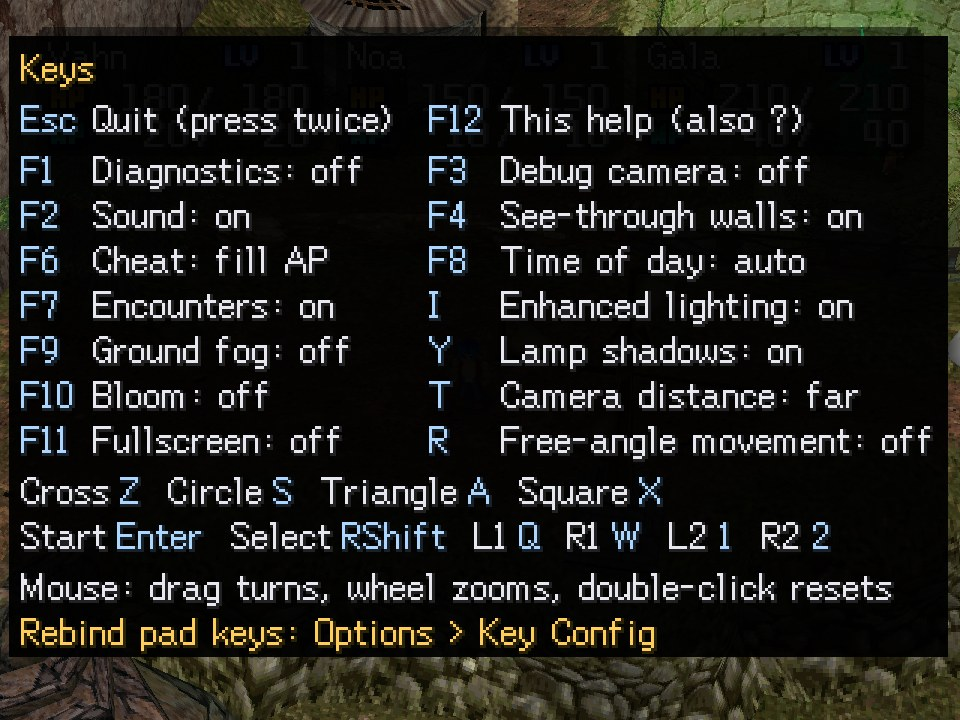
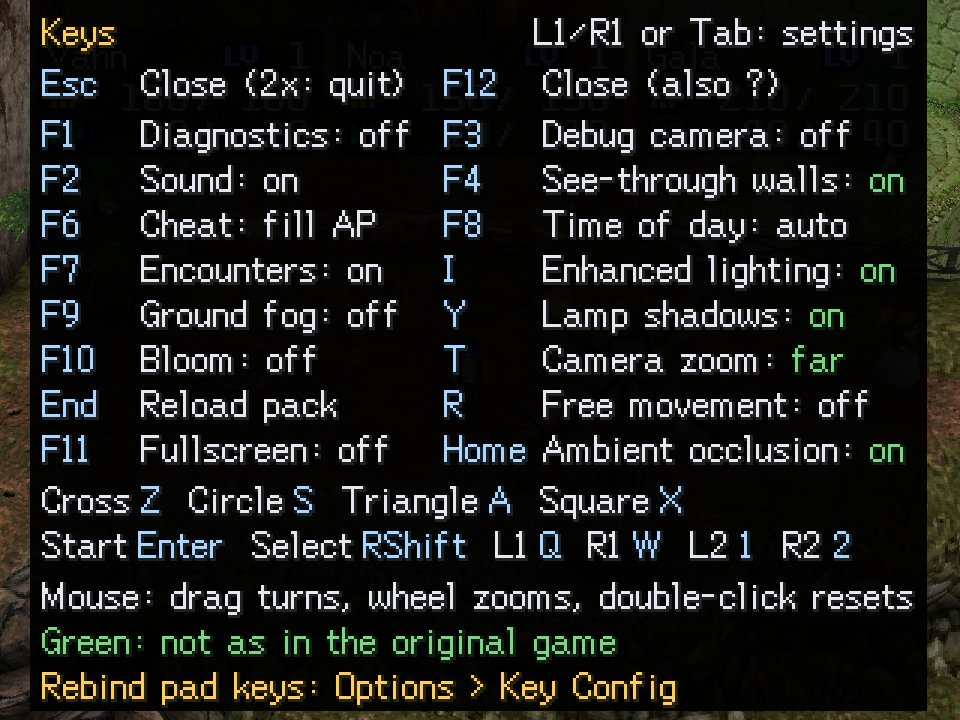
guides and screenshots: the launcher's first screen, the F12 pages, the workbench's Place objects and button names; Baka's pause menu

diff --git a/site/_content/guides/making-expansion-packs.html b/site/_content/guides/making-expansion-packs.html
@@ -67,14 +67,14 @@
   <p>Every edit re-runs the validator with your disc resolving each coordinate. A check names its file and field; clicking it opens the tab, selects the item and focuses the field, and <kbd>F8</kbd> steps through them. A pack with an error does not export.</p>
 
   <h3 id="first-play">7. Play it</h3>
-  <p><strong>Play here</strong> opens the play page on the map the Maps tab is on; while that tab is open, the next Play here (or <strong>Live</strong>, every edit) reloads the pack in place with the player where they stand. <strong>Open 3D preview</strong> draws the map the way the engine builds it, above the painter, with walls, zones and NPCs as see-through volumes. Both draw your disc's textures, so they are not pictured here.</p>
+  <p><strong>Play this map</strong> opens the play page on the map the Maps tab is on; while that tab is open, the next Play this map (or <strong>Live</strong>, every edit) reloads the pack in place with the player where they stand. The 3D view draws the map the way the engine builds it, with walls, zones and NPCs as see-through volumes under <strong>View</strong>, and <strong>Fullscreen</strong> (<kbd>F11</kbd>) takes it edge to edge. Both draw your disc's textures, so they are not pictured here.</p>
 
   <h3 id="first-share">8. Export and share</h3>
   <figure class="screenshot">
     <img src="../img/guides/expansion/10-packbar.png" width="1030" height="92" alt="The pack bar after a download: Harbor Tales, version 0.1.0, autosaved, with Download .lxpack, TOML files, Share, Play in browser and Play here" loading="lazy">
     <figcaption>The pack bar: download, the TOML files, Share, and the two ways to play.</figcaption>
   </figure>
-  <p><strong>Download .lxpack</strong> (<kbd>Ctrl</kbd>+<kbd>S</kbd>) writes the bundle - this one is under 2 KB, because it holds no game data. Anyone with their own disc opens it on the play page (<em>Load expansion</em>) or in the native port with <code>--expansion</code>. <strong>Share</strong> sets a cover, compares against an older <code>.lxpack</code> for a changelog and a version bump, downloads the editable sources as a zip, and adds the pack to the play page's library. The <strong>Files</strong> tab gives each TOML file on its own, for a pack kept as a folder.</p>
+  <p><strong>Save .lxpack</strong> (<kbd>Ctrl</kbd>+<kbd>S</kbd>) writes the bundle - this one is under 2 KB, because it holds no game data. Anyone with their own disc opens it on the play page (<em>Load expansion</em>) or in the native port with <code>--expansion</code>. <strong>Share</strong> sets a cover, compares against an older <code>.lxpack</code> for a changelog and a version bump, downloads the editable sources as a zip, and adds the pack to the play page's library. The <strong>Files</strong> tab gives each TOML file on its own, for a pack kept as a folder.</p>
   <figure class="screenshot">
     <img src="../img/guides/expansion/11-files.png" width="676" height="914" alt="The Files tab listing the exported battle.toml, cards.toml, dialog.toml, maps/first_map.toml, pack.toml and quests.toml with their sizes, the map file open on its TOML: its name, floor heights and base scene town01" loading="lazy">
     <figcaption>What the bundle holds: TOML that names disc content by number.</figcaption>
@@ -87,10 +87,10 @@
     <li><b>Pick your disc</b><span>The workbench reads its monsters, items, scenes and music for the pickers. Nothing is uploaded, and no name from the disc is written into the pack: a picker writes the coordinate (<code>{ kind = "monster", id = 109 }</code>), never the name beside it.</span></li>
     <li><b>Start from something</b><span>Load the <strong>sample pack</strong> (the project's example pack, written to learn from), a <code>.lxpack</code>, a pack folder of your own, or start a new pack: empty, from the minimal template, or as a clone of the sample pack.</span></li>
     <li><b>Edit section by section</b><span>One tab per file. The checks panel re-runs the validator after every edit with your disc resolving every coordinate; clicking an issue opens its tab and focuses the field. Undo and redo cover the whole pack, <strong>Find</strong> lists every place an id or a retail coordinate is used, <strong>Rename</strong> changes an id with every reference to it (previewed, one undo step), and the <strong>Flow</strong> tab draws the pack's progression as a graph with what the player cannot reach, flags read and never set, and rewards nothing grants marked on it.</span></li>
-    <li><b>Lay out a map</b><span>On the <strong>Maps</strong> tab: paint tiles from the legend, place spawns, exits, trigger and encounter zones, props and NPCs, and turn on <strong>Heights</strong> to see which cells the floor slopes across. The <strong>Detail layer</strong> under the painter dresses the floor - decorations, scatter brushes, edge runs, decals, animated materials, lights, fog and particles - each a list form whose tile fields pick on the canvas. For an outdoor map, open the <strong>Terrain</strong> box and sculpt with the <strong>Sculpt</strong> tool (K): hills, ridges, levelled pads, a shoreline under water (<a href="../formats/expansion-pack-maps.html#terrain">terrain</a>).</span></li>
-    <li><b>See it in 3D</b><span><strong>Open 3D preview</strong> above the painter draws the map the way the engine builds it - props, decorations, lights, fog and all - with the tile grid at its corner heights (ramps tinted) and walls, zones, triggers, spawns and NPCs as see-through volumes you can toggle. <strong>Split</strong> puts it beside the painter and keeps it in view while you scroll the forms, and <strong>3D</strong> makes it as large as the window. It rebuilds a moment after each edit, and the volumes follow an edit at once while it does; a click in 3D selects the tile in the painter, and <strong>Walk from selection</strong> drops you onto it with the game's camera. Switch the <strong>Edit</strong> bar to <strong>Select</strong> to move, turn and scale props, NPCs, spawns, lamps, emitters and zones with gizmos right in the picture (snapped to the tile or a 32-unit grid, Shift for free), to <strong>Sculpt</strong> to brush the terrain, or to <strong>Paint</strong> to lay ground materials - every edit lands in the painter and in undo. A cutscene's timeline draws its camera path there, scrubbed frame by frame.</span></li>
-    <li><b>Try it</b><span><strong>Play here</strong> opens the play page on the map you are editing; while that tab is open, Play here again (or <strong>Live</strong>) reloads your edits into it in place, with the player where they stand. <strong>Play in browser</strong> opens the play page with the pack loaded, from the start.</span></li>
-    <li><b>Share it</b><span><strong>Download .lxpack</strong>, or take the TOML files one at a time on the Files tab for a pack kept as a folder.</span></li>
+    <li><b>Lay out a map</b><span>In <strong>Build</strong>, a map opens in <strong>Place objects</strong> with a palette of real objects off your disc along the bottom. <strong>Map settings</strong> opens the tile painter: paint tiles from the legend, place spawns, exits, trigger and encounter zones, props and NPCs, and turn on <strong>Heights</strong> to see which cells the floor slopes across. The <strong>Detail layer</strong> under the painter dresses the floor - decorations, scatter brushes, edge runs, decals, animated materials, lights, fog and particles - each a list form whose tile fields pick on the canvas. For an outdoor map, open the <strong>Terrain</strong> box and sculpt with the <strong>Sculpt</strong> tool (K): hills, ridges, levelled pads, a shoreline under water (<a href="../formats/expansion-pack-maps.html#terrain">terrain</a>).</span></li>
+    <li><b>See it in 3D</b><span>A map opens in the 3D view, which draws it the way the engine builds it - props, decorations, lights, fog and all - with the tile grid at its corner heights (ramps tinted) and walls, zones, triggers, spawns and NPCs as see-through volumes you can toggle. <strong>Map settings</strong> puts the painter and the forms in a drawer beside it, and <strong>Fullscreen</strong> takes it edge to edge. It rebuilds a moment after each edit, and the volumes follow an edit at once while it does; a click in 3D selects the tile in the painter, and <strong>Walk from selection</strong> drops you onto it with the game's camera. Switch the <strong>Edit</strong> bar to <strong>Select</strong> to move, turn and scale props, NPCs, spawns, lamps, emitters and zones with gizmos right in the picture (snapped to the tile or a 32-unit grid, Shift for free), to <strong>Sculpt</strong> to brush the terrain, or to <strong>Paint</strong> to lay ground materials - every edit lands in the painter and in undo. A cutscene's timeline draws its camera path there, scrubbed frame by frame.</span></li>
+    <li><b>Try it</b><span><strong>Play this map</strong> opens the play page on the map you are editing; while that tab is open, Play this map again (or <strong>Live</strong>) reloads your edits into it in place, with the player where they stand. <strong>Play pack</strong> opens the play page with the pack loaded, from the start.</span></li>
+    <li><b>Share it</b><span><strong>Save .lxpack</strong>, or take the TOML files one at a time on the Files tab for a pack kept as a folder.</span></li>
   </ol>
   <p>The working pack autosaves in the browser, so closing the tab loses nothing; a returning visitor who loads the disc is offered to resume. A file you did not edit exports as the bytes it was loaded from, comments included. Page reference: <a href="https://github.com/AndrewAltimit/legend-of-legaia-re/blob/main/docs/tooling/expansion-workbench.md" target="_blank" rel="noopener">expansion-workbench.md</a>.</p>
 </section>

diff --git a/site/_content/guides/desktop-apps.html b/site/_content/guides/desktop-apps.html
@@ -155,7 +155,7 @@
 
   <h3 id="port-launcher">The launcher</h3>
   <figure class="screenshot">
-    <img src="../img/desktop/port-launcher.jpg" width="960" height="720" alt="The launcher: a disc card saying Legend of Legaia (USA) is ready, the Play, Change disc, Controls, Open saves folder and Quit buttons with a help box, and the grouped option list with its scroll bar - Display, Enhancements and Play, with Sound and Original game below the fold" loading="lazy">
+    <img src="../img/desktop/port-launcher.jpg" width="960" height="720" alt="The launcher: a disc card saying Legend of Legaia (USA) is ready, the Play, Play online, Change disc, Expansion pack, Controls, Saves folder and Quit buttons with a help box, and the grouped option list with its scroll bar, opening on the Look and feel row, then Display and Enhancements" loading="lazy">
     <figcaption>The launcher. Once it knows your disc it letters itself in the game's own font.</figcaption>
   </figure>
   <ol class="steps">
@@ -187,8 +187,12 @@
 
   <h3 id="port-toggles">Display toggles and the F12 panel</h3>
   <figure class="screenshot">
-    <img src="../img/desktop/port-help.jpg" width="960" height="720" alt="The native window with the F12 panel open, listing every toggle key with its current state and the key for each pad button" loading="lazy">
-    <figcaption><kbd>F12</kbd> (or <kbd>?</kbd>, or <kbd>Select</kbd> + <kbd>Start</kbd> on a controller) opens the settings page, where Up / Down pick a row and Left / Right change it while the game holds still. <kbd>Tab</kbd> or <kbd>L1</kbd> flips to this page, which lists every toggle key with its current state (fullscreen on <kbd>F11</kbd> too), which key is Cross, Circle, Start and the rest, and what the mouse does; a state the original game does not have is drawn green, as on the launcher. Press it again to close.</figcaption>
+    <img src="../img/desktop/port-settings.jpg" width="960" height="720" alt="The F12 panel over a dimmed town on its Settings page: fullscreen, camera distance, reduce flashing, the lighting rows, fog, see-through walls, free-angle movement and the volumes, with the focused row's help below" loading="lazy">
+    <figcaption>The settings page, the panel's first: Up / Down pick a row and Left / Right change it, with the game held still and the change showing behind the panel at once. It writes the same <code>legaia-options.toml</code> as the launcher.</figcaption>
+  </figure>
+  <figure class="screenshot">
+    <img src="../img/desktop/port-help.jpg" width="960" height="720" alt="The F12 panel over a dimmed town on its Keys page: every toggle key with its current state, with the states the original game does not have in green, then the pad key bindings and the mouse controls" loading="lazy">
+    <figcaption><kbd>F12</kbd> (or <kbd>?</kbd>, or <kbd>Select</kbd> + <kbd>Start</kbd> on a controller) opens the settings page above. <kbd>Tab</kbd>, <kbd>L1</kbd> or <kbd>R1</kbd> flips to this page, which lists every toggle key with its current state (fullscreen on <kbd>F11</kbd> too), which key is Cross, Circle, Start and the rest, and what the mouse does; a state the original game does not have is drawn green, as on the launcher. Press it again to close.</figcaption>
   </figure>
   <p>The port adds a few enhancements over the original, each on its own key (and on the <a href="#port-launcher">launcher</a>), each with the original look one press away. A press shows the toggle's new state at the bottom left for a moment. For its first few seconds the window says <em>F12 or ? lists the keys</em> in the same place, until you open the panel.</p>
   <table>

diff --git a/site/_content/guides/playing-expansion-packs.html b/site/_content/guides/playing-expansion-packs.html
@@ -23,8 +23,8 @@ legaia-engine play-window --disc "Legend of Legaia (USA).bin" \
 
 <section class="doc-section" id="browser" data-doc="-">
   <h2>In the browser</h2>
-  <p>On the <a href="../play.html">play page</a>, load your disc first: a pack activates against it. Every visit starts with no pack - New game and the Scene picker are the game as it shipped. Packs are experimental and incomplete, so one is turned on only from the <strong>Expansion pack</strong> card in the side panel: it lists the sample pack the site serves first and takes any other <code>.lxpack</code>, and a row's <em>Enable</em> loads it. While a pack is on, the Scenes list opens with a section under the pack's name, marked experimental, listing its maps and custom game modes, a click walks you straight onto one, and New Game plays with the pack; <em>Disable</em> goes back to the game as it shipped. Installed packs stay in the page's pack library, each with its cover, version and authors; a pack that needs a pack you have not installed, or conflicts with one you have, says so under its row (one pack plays at a time). The <a href="../tooling/expansion-workbench.html">expansion workbench</a>'s <em>Play in browser</em> button installs the pack it is editing in that library and opens the play page on it; <code>End</code> on the play page reloads the library's copy in place.</p>
-  <p class="callout callout-tip">The browser takes the bundled <code>.lxpack</code> form only. A pack kept as a folder becomes one with <code>asset expansion bundle</code>, or on the workbench (load the folder, <em>Download .lxpack</em>).</p>
+  <p>On the <a href="../play.html">play page</a>, load your disc first: a pack activates against it. Every visit starts with no pack - New game and the Scene picker are the game as it shipped. Packs are experimental and incomplete, so one is turned on only from the <strong>Expansion pack</strong> card in the side panel: it lists the sample pack the site serves first and takes any other <code>.lxpack</code>, and a row's <em>Enable</em> loads it. While a pack is on, the Scenes list opens with a section under the pack's name, marked experimental, listing its maps and custom game modes, a click walks you straight onto one, and New Game plays with the pack; <em>Disable</em> goes back to the game as it shipped. Installed packs stay in the page's pack library, each with its cover, version and authors; a pack that needs a pack you have not installed, or conflicts with one you have, says so under its row (one pack plays at a time). The <a href="../tooling/expansion-workbench.html">expansion workbench</a>'s <em>Play pack</em> button installs the pack it is editing in that library and opens the play page on it; <code>End</code> on the play page reloads the library's copy in place.</p>
+  <p class="callout callout-tip">The browser takes the bundled <code>.lxpack</code> form only. A pack kept as a folder becomes one with <code>asset expansion bundle</code>, or on the workbench (load the folder, <em>Save .lxpack</em>).</p>
 </section>
 
 <section class="doc-section" id="in-game" data-doc="-">

diff --git a/site/_content/guides/expansion-packs.html b/site/_content/guides/expansion-packs.html
@@ -141,7 +141,7 @@
   <h2>How a pack reaches the engine</h2>
   <p>Both hosts end in the same call. The native window takes a pack folder or an <code>.lxpack</code>; the browser page takes an <code>.lxpack</code> (a file pick, or the bundle the workbench hands over). Each validates it - a pack with errors is refused, with the first few named - and activates it through <code>SceneHost::activate_expansion_pack</code>, which is <code>World::activate_expansion</code>: the battle tables compile, the XP curve swaps, the quest runtime adopts any progress a save kept for the pack.</p>
   <figure class="diagram">
-    <svg viewBox="0 0 720 300" xmlns="http://www.w3.org/2000/svg" role="img" aria-label="Two hosts, one activation path. Native: the launcher's Expansion pack button or play-window --expansion with a folder or an .lxpack. Browser: the play page's Load expansion input, or the workbench's Play in browser hand-off through IndexedDB, both reaching LegaiaRuntime.load_expansion. Both validate the files and call SceneHost.activate_expansion_pack, which is World.activate_expansion. From there New Game, Continue, entrances, the Journal's Travel page and the direct map entries play with the pack.">
+    <svg viewBox="0 0 720 300" xmlns="http://www.w3.org/2000/svg" role="img" aria-label="Two hosts, one activation path. Native: the launcher's Expansion pack button or play-window --expansion with a folder or an .lxpack. Browser: the play page's Load expansion input, or the workbench's Play pack hand-off through IndexedDB, both reaching LegaiaRuntime.load_expansion. Both validate the files and call SceneHost.activate_expansion_pack, which is World.activate_expansion. From there New Game, Continue, entrances, the Journal's Travel page and the direct map entries play with the pack.">
       <defs><marker id="xh-arrow2" class="dg-arrow" viewBox="0 0 10 10" refX="9" refY="5" markerWidth="7" markerHeight="7" orient="auto"><path d="M0,0 L10,5 L0,10 z"/></marker></defs>
       <text class="dg-edge-label" x="10" y="20">native window</text>
       <rect class="dg-node" x="10" y="28" width="200" height="44" rx="4"/>

diff --git a/site/_content/guides/sample-pack.html b/site/_content/guides/sample-pack.html
@@ -47,7 +47,7 @@
 <section class="doc-section" id="play" data-doc="-">
   <h2>How to play it</h2>
   <ol class="steps steps-vertical">
-    <li><b>Get the pack</b><span>It comes with the game: the release archive carries it as <code>packs/sample.lxpack</code>, and the play page has it built in. From a checkout, bundle it yourself (<code>asset expansion bundle packs/sample -o sample.lxpack</code>), or open the <a href="../tooling/expansion-workbench.html">workbench</a>, load the sample pack and <em>Download .lxpack</em> - or press <em>Play in browser</em> and skip the file entirely.</span></li>
+    <li><b>Get the pack</b><span>It comes with the game: the release archive carries it as <code>packs/sample.lxpack</code>, and the play page has it built in. From a checkout, bundle it yourself (<code>asset expansion bundle packs/sample -o sample.lxpack</code>), or open the <a href="../tooling/expansion-workbench.html">workbench</a>, load the sample pack and <em>Save .lxpack</em> - or press <em>Play pack</em> and skip the file entirely.</span></li>
     <li><b>Load it</b><span>Desktop: the launcher's <em>Expansion pack...</em> button. Browser: the play page's <em>Expansion pack</em> card, once your disc is loaded.</span></li>
     <li><b>Play to the tower</b><span>Continue a late save, or start a new game and play to it. The way in is an entrance in Rim Elm that opens for a party of level 30 or more. From that level the Journal's <em>Travel</em> page (Select on the pause menu) lists the tower too, so you can go straight there from wherever the save stands; once you have been on a map, Travel takes you back to it from anywhere. To look around sooner: <code>--map genesis_1f</code> on the desktop, the pack's section of the play page's Scenes list, or the <em>Unlock all Travel maps</em> cheat.</span></li>
     <li><b>Follow the Journal</b><span>Select on the pause menu: the quest chain, the challenges with their best scores, your cards.</span></li>

diff --git a/site/_content/guides/modding-and-translation.html b/site/_content/guides/modding-and-translation.html
@@ -202,9 +202,9 @@
     <li>Load the <strong>sample pack</strong> (the project's example pack, written to learn from), a <code>.lxpack</code> or a pack folder of your own, or start fresh.</li>
     <li>Edit section by section. The checks panel re-runs the validator after every edit, with your disc resolving every coordinate; click an issue to go to its field.</li>
     <li>Lay out a map on the <strong>Maps</strong> tab: paint tiles from the legend, place spawns, exits, trigger and encounter zones and props, and turn on <strong>Heights</strong> to see which cells the floor slopes across.</li>
-    <li><strong>Download .lxpack</strong> to share it, or take the TOML files one at a time on the Files tab for a pack kept as a folder.</li>
+    <li><strong>Save .lxpack</strong> to share it, or take the TOML files one at a time on the Files tab for a pack kept as a folder.</li>
   </ol>
-  <p>The same pack works from the command line (<code>asset expansion validate</code>, <code>asset expansion bundle</code>) and runs in the native port with <code>legaia-engine play-window --expansion &lt;dir&gt;</code>, or on the browser play page: the workbench's <strong>Play in browser</strong> button hands the pack straight to it. The full guide is <a href="making-expansion-packs.html">making an expansion pack</a>; the tour is <a href="expansion-packs.html">expansion packs</a>.</p>
+  <p>The same pack works from the command line (<code>asset expansion validate</code>, <code>asset expansion bundle</code>) and runs in the native port with <code>legaia-engine play-window --expansion &lt;dir&gt;</code>, or on the browser play page: the workbench's <strong>Play pack</strong> button hands the pack straight to it. The full guide is <a href="making-expansion-packs.html">making an expansion pack</a>; the tour is <a href="expansion-packs.html">expansion packs</a>.</p>
 </section>
 
 <section class="doc-section" id="see-also">

diff --git a/site/_content/subsystems/minigame-baka-fighter.html b/site/_content/subsystems/minigame-baka-fighter.html
@@ -346,6 +346,7 @@ critical pending on the winner:  dmg = power &lt;&lt; 7</code></pre>
   </figure>
   <ul class="bullets">
     <li><strong>Every visit starts at roster 5.</strong> The stage counter is seeded to 2, steps once per cleared stage, and on reaching <code>0xE</code> raises the all-clear flag and wraps to 0.</li>
+    <li><strong>The duel pauses.</strong> Select or Triangle in the duel opens a three-row menu (Continue, Quit, How to Play), with a help panel behind its last row. The fight stands still under it because the round machine's body tests the duel state: clips keep playing, nothing commits or books, and the duel HUD is gone. All three hosts draw one model of the menu, gated on the disc's text.</li>
     <li><strong>The all-clear ends on a teaser.</strong> Beats <code>0xFA</code>..<code>0xFE</code> retire both duel actors and stand roster 4 on the player's mark on its idle (tick <code>FUN_801D6F18</code>), seen only darkened through a full-screen subtractive quad behind "IT'S NOT OVER YET." A run that met both secret opponents ends on the bare arena instead.</li>
     <li><strong>The secret opponents are score-gated, not lap-gated.</strong> After a won match the cabinet tests the stage just cleared against the running high score: stage 5 above 250,000 arms roster 3, stage 13 above 700,000 arms roster 4. Both comparisons are strict, so a score exactly on the threshold does not qualify. An armed override suppresses the stage advance and inserts the secret rung instead of replacing a rung; it is consumed when the rung installs.</li>
     <li><strong>Only the tally adds to the pot.</strong> A won match hands the rung&rsquo;s coin prize (roster record <code>+0x20</code>) to the tally, which drains it into the pot. The match-won arm itself never touches the pot.</li>

diff --git a/site/_content/guides/playing-and-viewing.html b/site/_content/guides/playing-and-viewing.html
@@ -24,7 +24,7 @@
   <p>Started with <strong>no subcommand</strong> - the archive's <code>Legend of Legaia</code> program (<code>.exe</code> on Windows, <code>.app</code> on macOS), a desktop shortcut, a double-click - <code>legaia-engine</code> opens its launcher instead of printing help:</p>
   <div class="cli"><code>./legaia-engine</code></div>
   <figure class="screenshot">
-    <img src="../img/desktop/port-launcher.jpg" width="960" height="720" alt="The launcher: a disc card saying Legend of Legaia (USA) is ready, the Play, Change disc, Controls, Open saves folder and Quit buttons with a help box, and the grouped option list with its scroll bar - Display (fullscreen, window size, camera distance, PlayStation pixel look), Enhancements (enhanced lighting, time of day, lamp shadows, bloom, ground fog, see-through walls, living ground pulse) and Play (free-angle movement, smarter monsters, reduce flashing)" loading="lazy">
+    <img src="../img/desktop/port-launcher.jpg" width="960" height="720" alt="The launcher: a disc card saying Legend of Legaia (USA) is ready, the Play, Play online, Change disc, Expansion pack, Controls, Saves folder and Quit buttons with a help box, and the grouped option list with its scroll bar, opening on the Look and feel row, then Display and Enhancements" loading="lazy">
     <figcaption>The launcher, lettered in the game's own font once your disc is known.</figcaption>
   </figure>
   <ol class="steps">

diff --git a/docs/guides/modding-and-translation.md b/docs/guides/modding-and-translation.md
@@ -247,16 +247,17 @@ page builds one in the browser:
 3. Edit section by section. The checks panel re-runs the validator after
    every edit, with your disc resolving every coordinate; click an issue to
    go to its field.
-4. Lay out a map on the **Maps** tab: paint tiles from the legend, place
-   spawns, exits, trigger and encounter zones and props, and turn on
+4. Lay out a map under **Build**. It opens in **Place objects**, with a palette
+   of real objects off your disc; **Map settings** opens the tile painter: paint
+   tiles from the legend, place spawns, exits, trigger and encounter zones and props, and turn on
    **Heights** to see which cells the floor slopes across.
-5. **Download .lxpack** to share it, or take the TOML files one at a time on
+5. **Save .lxpack** to share it, or take the TOML files one at a time on
    the Files tab for a pack kept as a folder.
 
 The same pack works from the command line (`asset expansion validate`,
 `asset expansion bundle`) and runs in the native port with
 `legaia-engine play-window --expansion <dir>`, or on the browser play page:
-the workbench's **Play in browser** button hands the pack straight to it. Page reference:
+the workbench's **Play pack** button hands the pack straight to it. Page reference:
 [expansion-workbench.md](../tooling/expansion-workbench.md); format:
 [expansion-pack.md](../formats/expansion-pack.md).
 

diff --git a/docs/guides/making-expansion-packs.md b/docs/guides/making-expansion-packs.md
@@ -60,12 +60,12 @@ and a browser; nothing is installed.
    resolving each coordinate. A check names its file and field; clicking it
    opens the tab, selects the item and focuses the field. A pack with an
    error does not export. `F8` steps through the checks.
-7. **Play it.** **Play here** opens the play page on the map the Maps tab
-   is on; while that tab is open, the next Play here (or **Live**, every
+7. **Play it.** **Play this map** opens the play page on the map the Maps tab
+   is on; while that tab is open, the next Play this map (or **Live**, every
    edit) reloads the pack in place with the player where they stand.
-   **Open 3D preview** draws the map the way the engine builds it, above
-   the painter.
-8. **Export and share.** **Download .lxpack** writes the bundle (`Ctrl+S`).
+   The 3D view is the map the way the engine builds it; **Fullscreen** (`F11`)
+   takes it edge to edge.
+8. **Export and share.** **Save .lxpack** writes the bundle (`Ctrl+S`).
    Anyone with their own disc opens it on the play page (*Load expansion*)
    or in the native port with `--expansion`. **Share** sets a cover,
    compares against an older `.lxpack` for a changelog and a version bump,

diff --git a/docs/guides/playing-and-viewing.md b/docs/guides/playing-and-viewing.md
@@ -824,7 +824,7 @@ click walks straight onto one, as a retail scene's row does. The
 packs you install stay in the browser's pack library, listed with their cover,
 version and authors; a pack that needs another pack you have not installed, or
 conflicts with one you have, says so under its row. The expansion workbench's
-*Play in browser* installs the working pack in that library (replacing the
+*Play pack* installs the working pack in that library (replacing the
 version there) and opens the play page on it, and `End` on the play page
 reloads the library's copy in place. *Unload* goes back to the game as it
 shipped.
